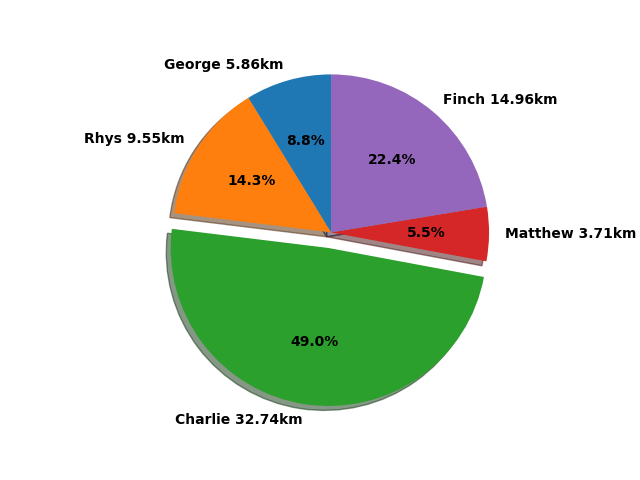
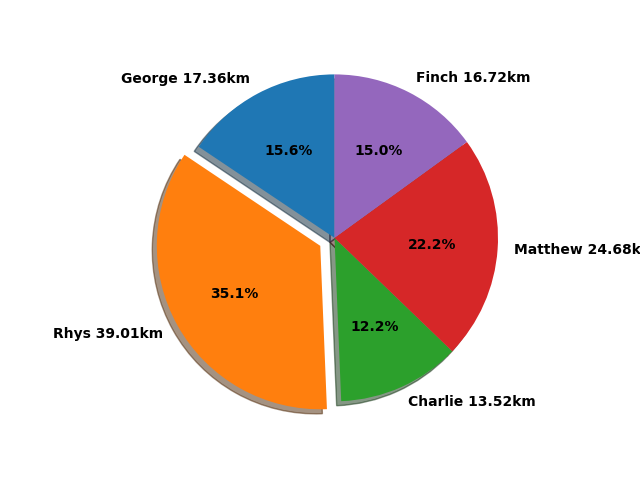
Setup quick develop branch.

diff --git a/website/frontend/static/js/views/Dashboard.js b/website/frontend/static/js/views/Dashboard.js
@@ -8,7 +8,7 @@ export default class extends AbstractView {
 
     async getHtml() {
         return `
-            <h1>Nug Run Club 2022!</h1>
+            <h1>Nug Run Club 2023!</h1>
             <p>
                 Watch this space! Here we'll put the current month pie with some graphs of current progress.       
             </p>

diff --git a/website/frontend/index.html b/website/frontend/index.html
@@ -4,7 +4,7 @@
     <meta charset="UTF-8">
     <!-- <meta http-equiv="X-UA-Compatible" content="IE=edge"> -->
     <meta name="viewport" content="width=device-width, initial-scale=1.0">
-    <title>Run Club 2022</title>
+    <title>Run Club 2023</title>
     <link rel="stylesheet" href="/static/css/index.css">
 </head>
 

diff --git a/getActivities.py b/getActivities.py
@@ -4,8 +4,11 @@ import pandas as pd
 import json
 import csv
 
-jsons = ["tokens/charlieToken.json", "tokens/georgeToken.json", "tokens/matthewToken.json", "tokens/rhysToken.json", "tokens/finchToken.json", "tokens/jennyToken.json"]
-csvs = ['charlieActivities.csv', 'georgeActivities.csv', 'matthewActivities.csv', 'rhysActivities.csv', "finchActivities.csv", "jennyActivities.csv"]
+# jsons = ["tokens/charlieToken.json", "tokens/georgeToken.json", "tokens/matthewToken.json", "tokens/rhysToken.json", "tokens/finchToken.json", "tokens/jennyToken.json"]
+# csvs = ['charlieActivities.csv', 'georgeActivities.csv', 'matthewActivities.csv', 'rhysActivities.csv', "finchActivities.csv", "jennyActivities.csv"]
+
+jsons = ["tokens/charlieToken.json", "tokens/georgeToken.json", "tokens/matthewToken.json", "tokens/rhysToken.json", "tokens/finchToken.json"]
+csvs = ['charlieActivities.csv', 'georgeActivities.csv', 'matthewActivities.csv', 'rhysActivities.csv', "finchActivities.csv"]
 
 for i, token in enumerate(jsons):
     # Get the tokens from file to connect to Strava

diff --git a/analysisGraphs/distancePieChart.py b/analysisGraphs/distancePieChart.py
@@ -5,15 +5,13 @@ from matplotlib import pyplot as plt
 import sys
 from datetime import datetime
 import numpy as np
-
-
 # date
 now = datetime.now()
 stringDate = now.strftime("%Y-%m")
 # stringDate = "2022-07"
 
 # I think paths have to be relative to the dataGrabber.sh script!
-counted_data = np.genfromtxt("googleData.csv", delimiter=",")
+counted_data = np.genfromtxt("../googleData.csv", delimiter=",")
 counted_data = counted_data.transpose()
 
 # Pie chart, where the slices will be ordered and plotted counter-clockwise:
@@ -35,7 +33,4 @@ ax1.pie(distances, explode=explode, labels=labels, autopct='%1.1f%%',
         shadow=True, startangle=90,
         textprops={'color': 'black', 'weight': 'bold', 'fontsize': 10})
 ax1.axis('equal')  # Equal aspect ratio ensures that pie is drawn as a circle.
-
-
-
-# plt.savefig("website/frontend/images/pie.png")
+plt.savefig("../website/frontend/images/pie.png")

diff --git a/countUp.py b/countUp.py
@@ -4,10 +4,12 @@ import pandas as pd
 from datetime import datetime
 
 # My files to use when updating the google dataframe
+# file_list = ['charlieActivities.csv', 'matthewActivities.csv', 'georgeActivities.csv',
+#              'rhysActivities.csv', "finchActivities.csv", "jennyActivities.csv"]
 file_list = ['charlieActivities.csv', 'matthewActivities.csv', 'georgeActivities.csv',
-             'rhysActivities.csv', "finchActivities.csv", "jennyActivities.csv"]
+             'rhysActivities.csv', "finchActivities.csv"]
 
-names = ["Charlie", "Matthew", "George", "Rhys", "Finch", "Jenny"]
+names = ["Charlie", "Matthew", "George", "Rhys", "Finch"]
 
 # Read google sheet data to a data frame
 googleData = pd.read_csv("googleData.csv")
